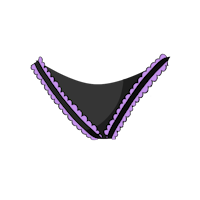
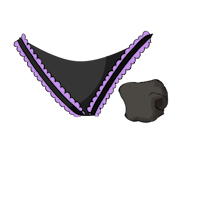
5.2.8b

Changed region(s): [[0.06, 0.15, 0.87, 0.72]]

diff --git a/Game/KinkyDungeonInventory.js b/Game/KinkyDungeonInventory.js
@@ -175,6 +175,18 @@ KDFilterFilters[Armor] = {
 	Heavy: false,
 	Mage: false,
 	Accessory: false,
+
+	Head: false,
+	Chest: false,
+
+	Arms: false,
+	Gloves: false,
+
+	Torso: false,
+	Panties: false,
+
+	Legs: false,
+	Boots: false,
 };
 KDFilterFilters[Restraint] = {
 	Special: false,
@@ -227,6 +239,37 @@ let KDSpecialFilters = {
 		Mundane: (item, handle) => {
 			if (handle) KDFilterFilters[Armor].Enchanted = false;
 			return !KinkyDungeonRestraintVariants[item.inventoryVariant || item.name];
+		},
+
+		Head: (item, handle) => {
+			return KDRestraint(item)?.Group == "ItemHead" || KDRestraint(item)?.Group == "ItemMouth" || KDRestraint(item)?.Group == "ItemNeck";
+		},
+		Neck: (item, handle) => {
+			return KDRestraint(item)?.Group == "ItemNeck";
+		},
+		Chest: (item, handle) => {
+			return KDRestraint(item)?.Group == "ItemBreast";
+		},
+		Arms: (item, handle) => {
+			return KDRestraint(item)?.Group == "ItemArms";
+		},
+		Gloves: (item, handle) => {
+			return KDRestraint(item)?.Group == "ItemHands";
+		},
+		Torso: (item, handle) => {
+			return KDRestraint(item)?.Group == "ItemTorso";
+		},
+		Panties: (item, handle) => {
+			return KDRestraint(item)?.Group == "ItemPelvis";
+		},
+		Legs: (item, handle) => {
+			return KDRestraint(item)?.Group == "ItemLegs";
+		},
+		Ankles: (item, handle) => {
+			return KDRestraint(item)?.Group == "ItemFeet";
+		},
+		Boots: (item, handle) => {
+			return KDRestraint(item)?.Group == "ItemBoots";
 		},
 	},
 	weapon: {

diff --git a/Game/KinkyDungeonRestraintsList.js b/Game/KinkyDungeonRestraintsList.js
@@ -4929,6 +4929,17 @@ const KinkyDungeonRestraints = [
 			Laces: {"gamma":1,"saturation":1,"contrast":1.1333333333333333,"brightness":3.9000000000000004,"red":1,"green":1,"blue":1,"alpha":1},
 		},
 		escapeChance: {"Struggle": 0.15, "Cut": 0.45, "Remove": 0.4, "Pick": 0.9}, enemyTags: {}, playerTags: {}, minLevel: 0, floors: KDMapInit([]), shrine: []},
+	{inventory: true, removePrison: true, alwaysKeep: true, showInQuickInv: true, good: true, name: "ElvenPanties", debris: "Fabric", inaccessible: true,
+		Asset: "ElfPanties", Color: "#ff00ff", Group: "ItemPelvis", power: 1, weight: 0, slimeWalk: true,
+		value: 250,
+		armor: true,
+		Model: "ElfPanties",
+		LinkAll: true,
+		NoLinkOver: true,
+		events: [
+			{type: "Buff", trigger: "tick", power: 0.11, buffType: "SprintEfficiency"},
+		],
+		escapeChance: {"Struggle": 1, "Cut": 1, "Remove": 1, "Pick": 1}, enemyTags: {}, playerTags: {}, minLevel: 0, floors: KDMapInit([]), shrine: []},
 	{inventory: true, removePrison: true, alwaysKeep: true, showInQuickInv: true, good: true,
 		name: "GasMask", debris: "Belts", accessible: true,
 		Asset: "GasMask", Color: "#ff00ff", Group: "ItemMouth", gag: 0.4, power: 1, weight: 0,

diff --git a/Game/KinkyDungeonLootList.js b/Game/KinkyDungeonLootList.js
@@ -531,6 +531,7 @@ let KinkyDungeonLootTable = {
 		{name: "grinder", minLevel: 1, weight:2, message:"LootChestGrinder", messageColor:"yellow", messageTime: 3, allFloors: true},
 		{name: "PotionCollar", minLevel: 1, weight:0.5, message:"LootPotionCollar", messageColor:"yellow", messageTime: 3, allFloors: true, norestraint: ["PotionCollar"]},
 		{name: "SlimeWalkers", armor: "SlimeWalkers", minLevel: 1, weight:0.5, message:"LootSlimeWalkers", messageColor:"lightblue", messageTime: 3, allFloors: true, norestraint: ["SlimeWalkers"]},
+		{name: "ElvenPanties", armor: "ElvenPanties", minLevel: 1, weight:1, message:"LootChestArmor", messageColor:"lightblue", messageTime: 3, allFloors: true, norestraint: ["ElvenPanties"]},
 		...KDAdvancedArmor, ...KDSilverArmor,
 	],
 

diff --git a/Game/KinkyDungeonDress.js b/Game/KinkyDungeonDress.js
@@ -307,7 +307,7 @@ function KinkyDungeonDressPlayer(Character, NoRestraints, Force) {
 					//if (KinkyDungeonGetRestraintItem("ItemBreast")) clothes.Lost = true;
 					//}
 					if (clothes.Group == "Panties" && !clothes.NoLose) {
-						if (KinkyDungeonGetRestraintItem("ItemPelvis") && KinkyDungeonGetRestraintItem("ItemPelvis") && KDRestraint(KinkyDungeonGetRestraintItem("ItemPelvis"))?.chastity) clothes.Lost = true;
+						if (KinkyDungeonGetRestraintItem("ItemPelvis")) clothes.Lost = true;
 					}
 					if (clothes.Group == "ClothLower" && clothes.Skirt) {
 						//if (KinkyDungeonPlayerTags?.get("EncaseLegs")) clothes.Lost = true;

diff --git a/Game/KinkyDungeonConsumablesList.js b/Game/KinkyDungeonConsumablesList.js
@@ -80,6 +80,7 @@ let KinkyDungneonBasic = {
 let KinkyDungneonShopRestraints = {
 	"SlimeWalkers" : {name: "SlimeWalkers", rarity: 2, shop: true},
 	"SarielPanties" : {name: "SarielPanties", rarity: 5, shop: true},
+	"ElvenPanties" : {name: "ElvenPanties", rarity: 3, shop: true},
 	"DivineBelt" : {name: "DivineBelt", rarity: 5, shop: true},
 	"DivineBelt2" : {name: "DivineBelt2", rarity: 5, shop: true},
 	"DivineBra" : {name: "DivineBra", rarity: 5, shop: true},
